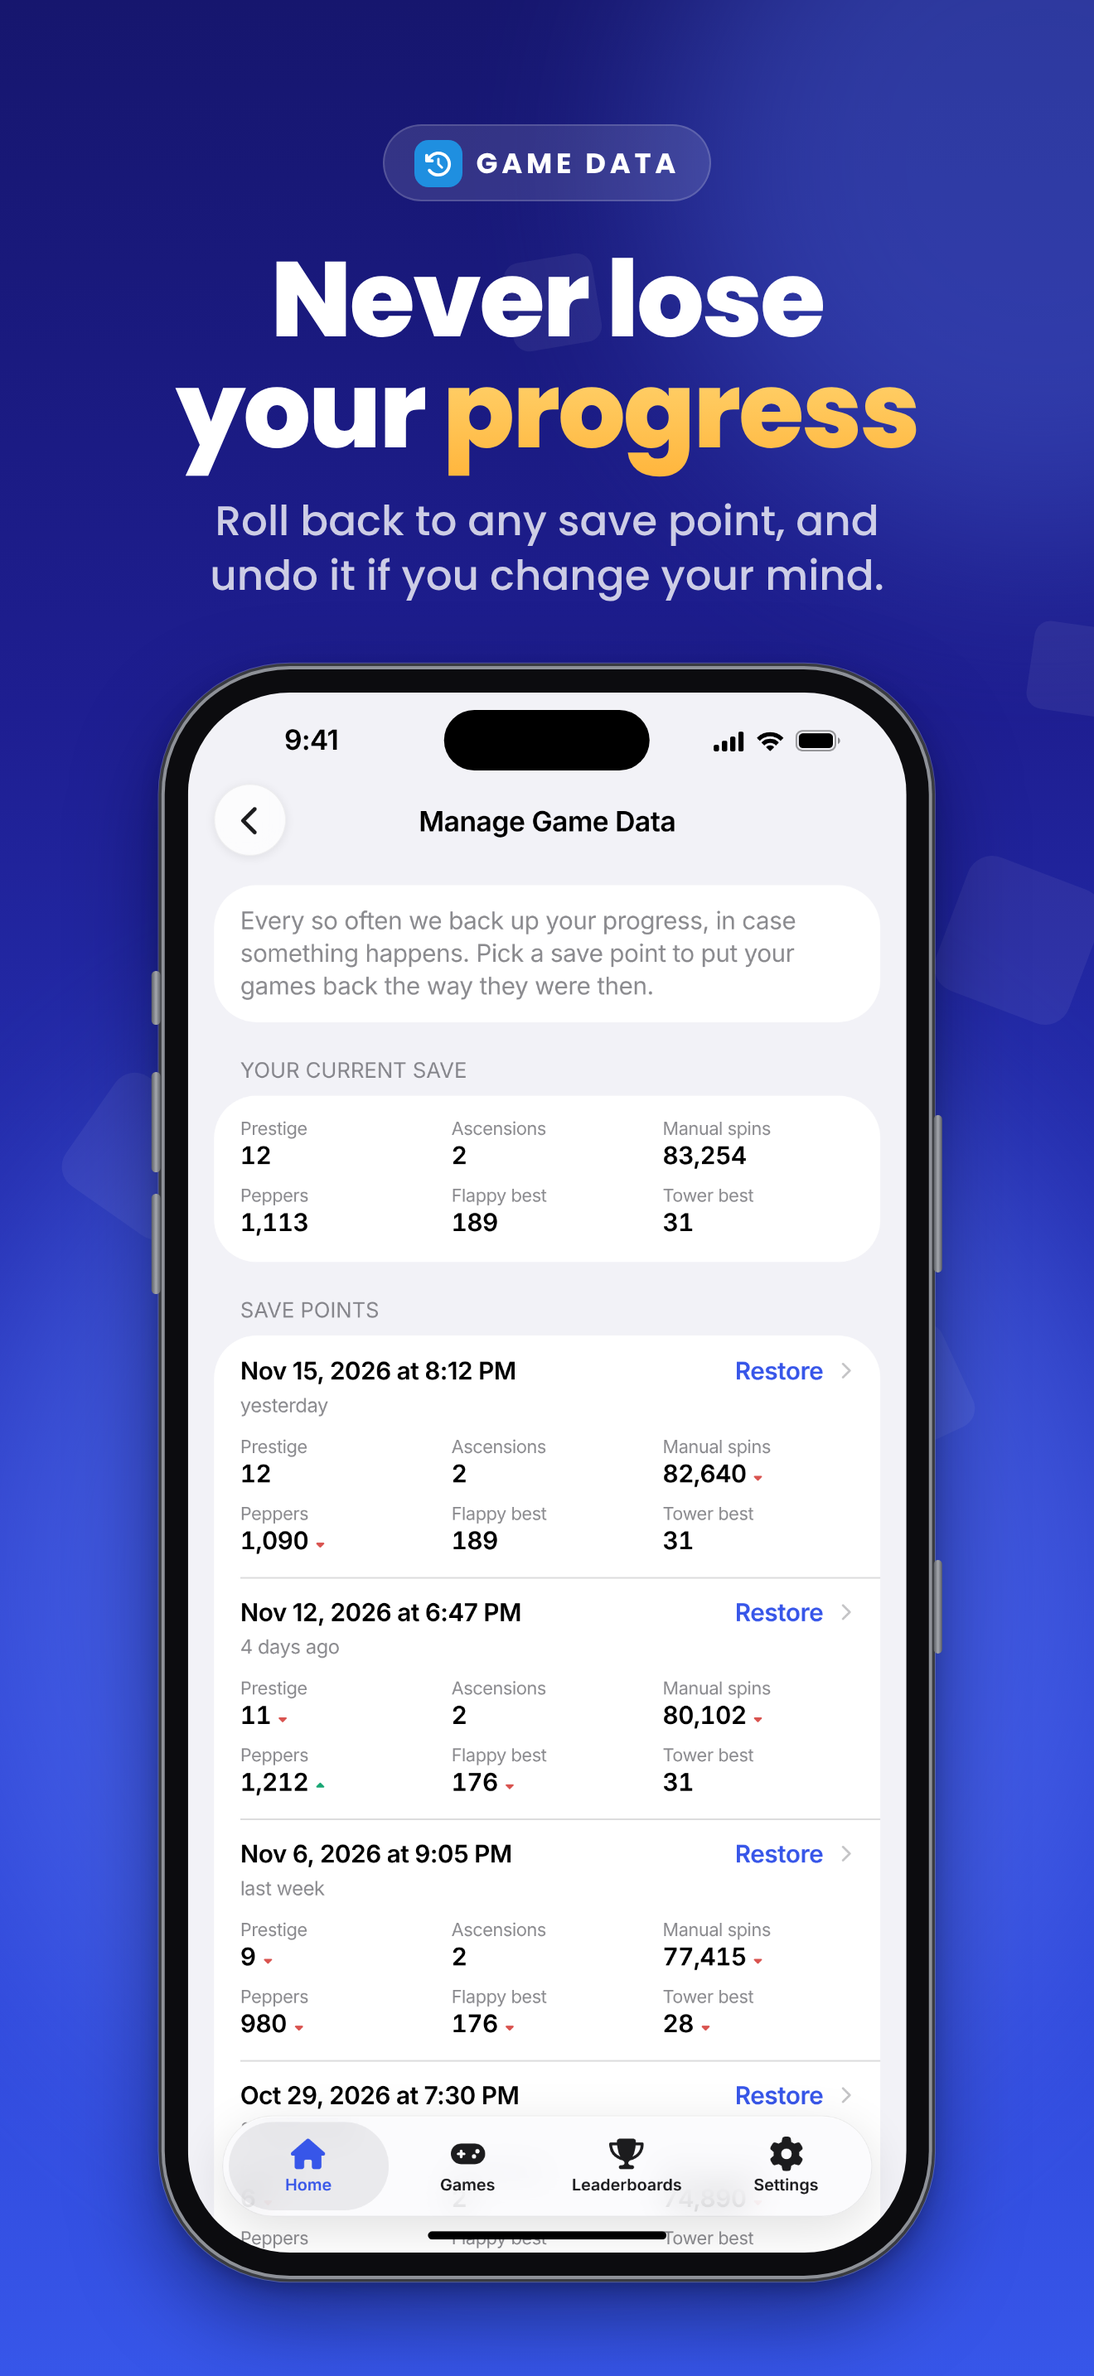
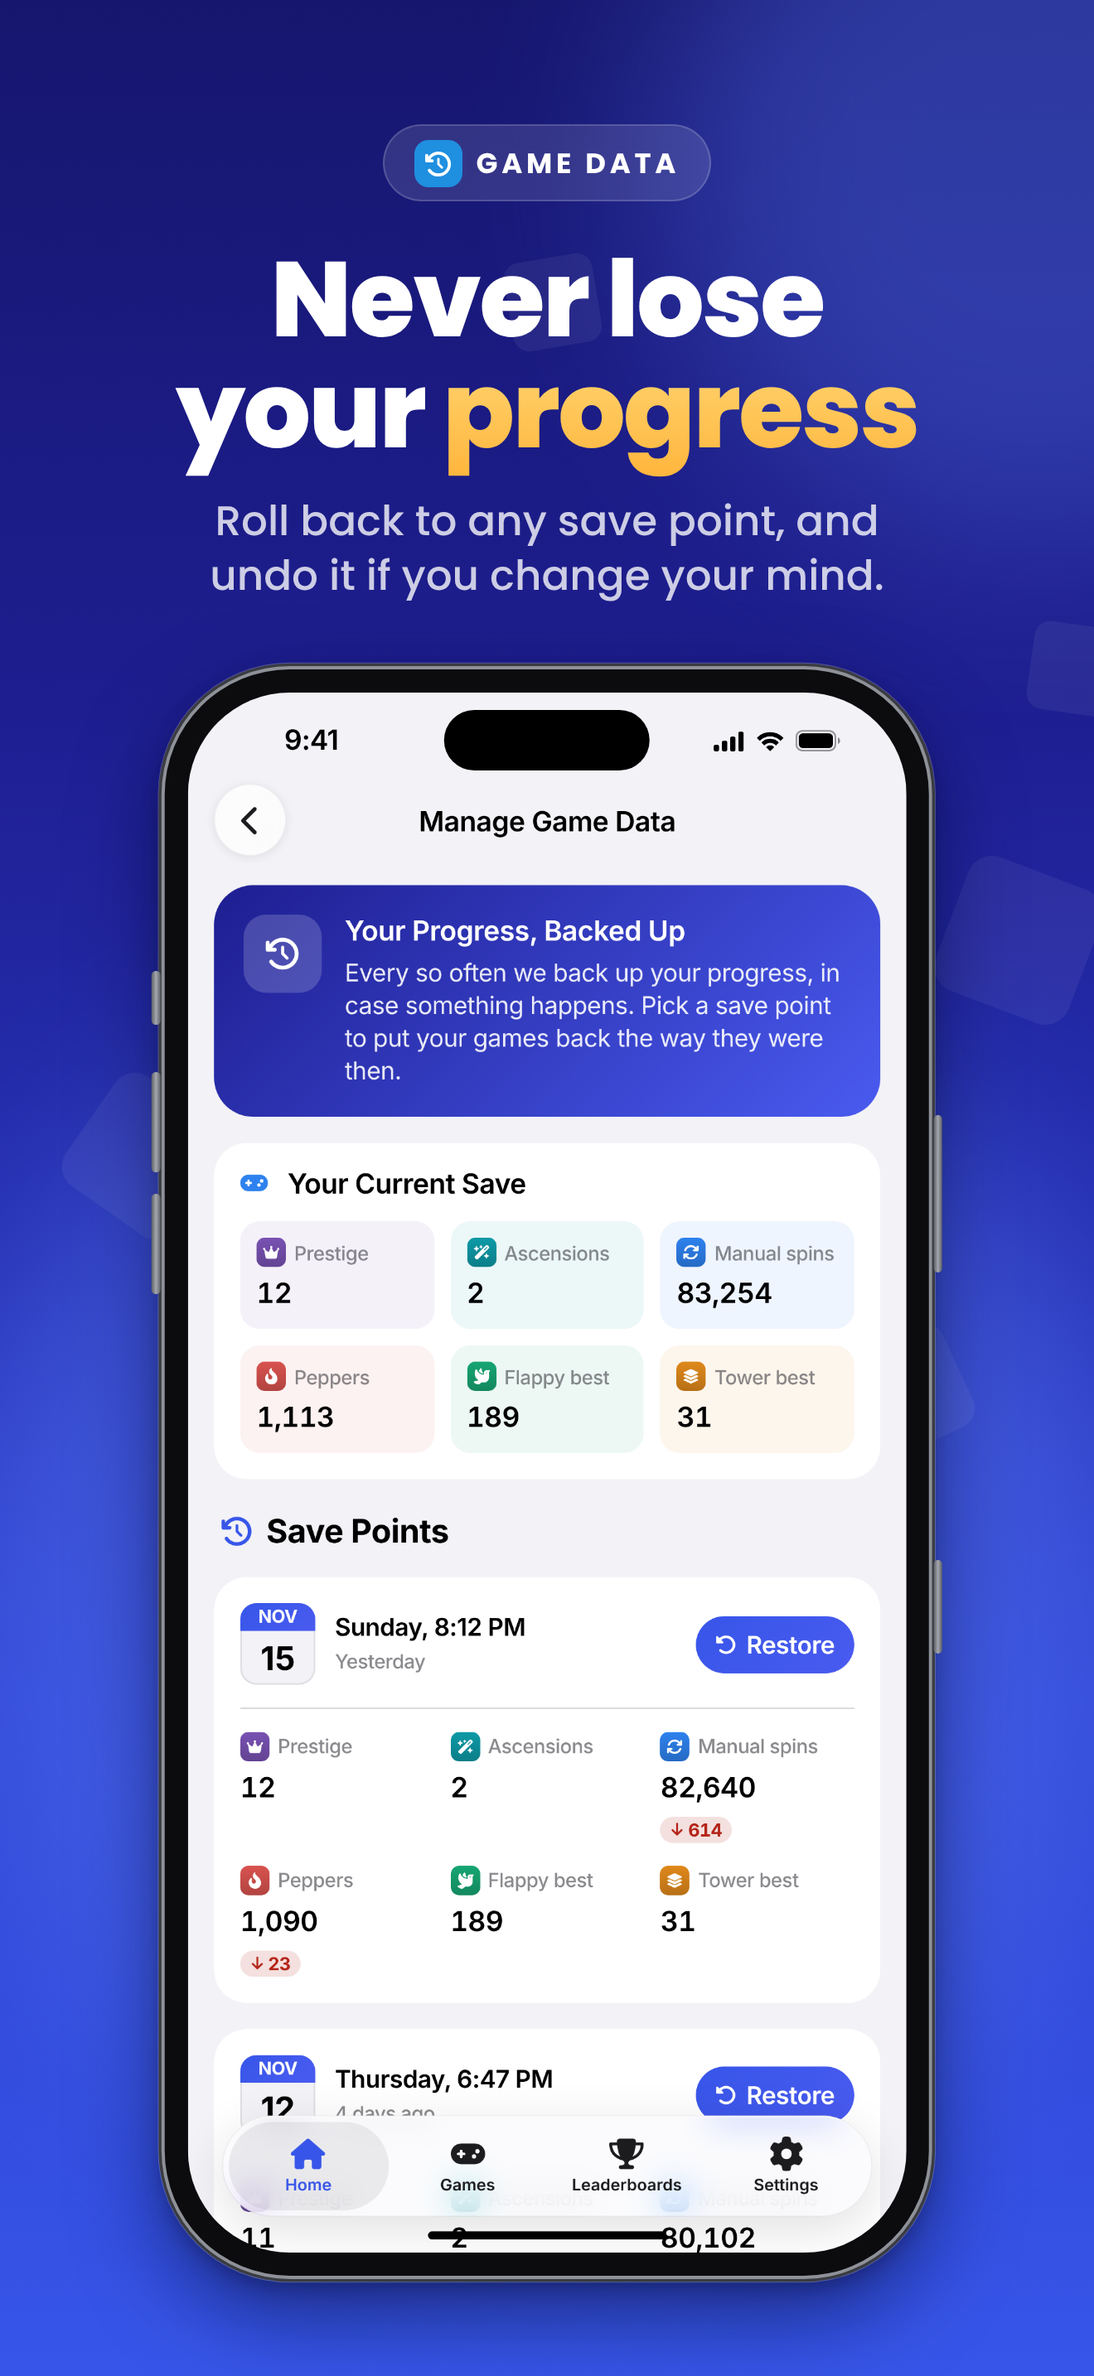
iOS: tidy Manage Game Data cards; redraw its App Store screenshots
- Save point cards: numbers without tiles so more of the list fits,
  no "Same" under unchanged numbers, and weekday + time beside the
  calendar badge rather than the date twice (VoiceOver still reads the
  full date).
- native.html's Manage Game Data replica follows the new design, with the
  icons it needs (Font Awesome 6.7.2), and screens/*/savepoints.png and
  08-saves.png are rendered again from it.

Claude-Session: https://claude.ai/code/session_0112WJBHHjU2nnrges9aJhjk

Changed region(s): [[0.1864, 0.3724, 0.8076, 0.931], [0.6212, 0.931, 0.6833, 0.962], [0.2174, 0.931, 0.2485, 0.962]]

diff --git a/ios/AppStore/templates/native.html b/ios/AppStore/templates/native.html
@@ -204,24 +204,47 @@
   .pad .back { left: 24px; bottom: auto; top: 41px; }
   /* With the tabs on top, the inline title sits beside the back button, on their line */
   .pad .nav.inline .bar .title { position: absolute; left: 80px; top: 41px; line-height: 44px; }
-  .gd .group { background: var(--card); border-radius: 26px; overflow: hidden; margin-bottom: 22px; }
-  .gd .cell { padding: 12px 16px; position: relative; }
-  .gd .cell + .cell::before { content: ""; position: absolute; top: 0; left: 16px; right: 0; height: 0.5px; background: var(--separator); }
-  .gd .intro { font-size: 15px; line-height: 20px; color: var(--secondary); }
-  .gd .sechead { padding-left: 16px; }
-  .gd .secfoot { padding: 0 16px; margin: -15px 0 22px; line-height: 18px; }
-  .stats { display: grid; grid-template-columns: repeat(3, minmax(0, 1fr)); column-gap: 12px; row-gap: 8px; }
-  .stats small { display: block; font-size: 11px; line-height: 13px; color: var(--secondary); white-space: nowrap; }
-  .stats b { font-size: 15px; font-weight: 600; line-height: 20px; font-variant-numeric: tabular-nums; display: flex; gap: 3px; align-items: center; }
-  .stats b.kept { color: var(--secondary); }
-  .stats .ico { font-size: 8px; }
-  .sp { display: flex; flex-direction: column; gap: 10px; padding: 14px 16px; }
-  .sp .when { display: flex; align-items: baseline; gap: 8px; }
+  /* Cards on the grouped background, as SavePointsView draws them */
+  .gd { display: flex; flex-direction: column; gap: 16px; }
+  .gd .ghero { border-radius: 24px; padding: 18px; color: #fff; display: flex; gap: 14px; align-items: flex-start;
+    background: linear-gradient(135deg, var(--brand), #4A5BF0); }
+  .gd .ghero .gi { width: 48px; height: 48px; border-radius: 14px; background: rgba(255,255,255,0.18); display: grid; place-items: center;
+    font-size: 22px; flex: none; }
+  .gd .ghero b { display: block; font-size: 17px; font-weight: 600; line-height: 22px; }
+  .gd .ghero p { font-size: 15px; line-height: 20px; opacity: 0.9; margin-top: 4px; }
+  .gd .gsec { font-size: 20px; font-weight: 700; display: flex; gap: 8px; align-items: center; padding: 4px 4px 0; }
+  .gd .gsec .ico { color: var(--accent); }
+  .gd .gnote { font-size: 13px; line-height: 18px; color: var(--secondary); display: flex; gap: 6px; padding: 0 4px; }
+  .gd .gnote .ico { margin-top: 2px; }
+  .stats { display: grid; grid-template-columns: repeat(3, minmax(0, 1fr)); gap: 10px; }
+  .stats > div { border-radius: 12px; padding: 10px; display: flex; flex-direction: column; gap: 6px; min-width: 0; }
+  .stats .sl { display: flex; gap: 5px; align-items: center; font-size: 12px; font-weight: 500; color: var(--secondary); white-space: nowrap; }
+  .stats .si { width: 18px; height: 18px; border-radius: 5px; display: grid; place-items: center; color: #fff; font-size: 10px; flex: none; }
+  .stats b { font-size: 17px; font-weight: 600; line-height: 22px; font-variant-numeric: tabular-nums; }
+  .sp .stats { row-gap: 14px; }
+  .sp .stats > div { padding: 0; background: none !important; }
+  .stats b.kept { color: var(--tertiary); }
+  .stats .note { font-size: 11px; font-weight: 500; color: var(--secondary); line-height: 16px; }
+  .delta { align-self: flex-start; display: inline-flex; gap: 2px; align-items: center; font-size: 11px; font-weight: 700; line-height: 16px;
+    padding: 0 6px; border-radius: 99px; font-variant-numeric: tabular-nums; }
+  .delta .ico { font-size: 9px; }
+  .delta.gain { color: #0B744C; background: rgba(11,116,76,0.14); }
+  .delta.loss { color: #B42318; background: rgba(180,35,24,0.14); }
+  .sp { background: var(--card); border-radius: 20px; padding: 16px; display: flex; flex-direction: column; gap: 14px; }
+  .sp .when { display: flex; align-items: center; gap: 12px; }
   .sp .when b { display: block; font-size: 15px; font-weight: 600; line-height: 20px; }
-  .sp .when small { font-size: 12px; color: var(--secondary); }
-  .sp .restore { margin-left: auto; font-size: 15px; font-weight: 600; color: var(--accent); display: flex; gap: 8px; align-items: center; }
-  .sp .restore .ico { font-size: 11px; color: var(--tertiary); }
-  .tag { align-self: flex-start; font-size: 11px; font-weight: 600; padding: 3px 8px; border-radius: 99px; color: var(--secondary); background: rgba(60,60,67,0.08); }
+  .sp .when small { font-size: 12px; font-weight: 500; color: var(--secondary); }
+  .cal { width: 46px; height: 50px; border-radius: 10px; overflow: hidden; flex: none; display: flex; flex-direction: column;
+    background: #F2F2F7; box-shadow: inset 0 0 0 1px rgba(0,0,0,0.08); }
+  .cal i { font-style: normal; font-size: 11px; font-weight: 700; color: #fff; text-align: center; line-height: 17px;
+    background: linear-gradient(135deg, #3756E9, #4A5BF0); }
+  .cal span { flex: 1; display: grid; place-items: center; font-size: 20px; font-weight: 700; }
+  .sp .restore { margin-left: auto; font-size: 15px; font-weight: 600; color: #fff; display: flex; gap: 6px; align-items: center;
+    padding: 8px 12px; border-radius: 99px; background: linear-gradient(135deg, #3756E9, #4A5BF0); white-space: nowrap; }
+  .sp .restore .ico { font-size: 13px; }
+  .sp hr { border: 0; height: 0.5px; background: var(--separator); }
+  .tag { align-self: flex-start; display: inline-flex; gap: 4px; align-items: center; font-size: 11px; font-weight: 600; padding: 4px 8px;
+    border-radius: 99px; color: var(--spin); background: rgba(46,130,239,0.14); }
   .pad .gd { max-width: 720px; margin: 0 auto; }  /* readableListWidth() */
 
   .xp { display: flex; gap: 8px; font-size: 20px; font-weight: 600; align-items: center; }
@@ -492,38 +515,52 @@ const peppersCard = () => `
 // Manage Game Data (SavePointsView): the account now, then its save points,
 // newest first, each against it, higher or lower. Mateo's numbers, as on Home.
 const NOW = [12, 2, 83254, 1113, 189, 31];
-const STAT_LABELS = ['Prestige', 'Ascensions', 'Manual spins', 'Peppers', 'Flappy best', 'Tower best'];
+// SaveStat's label, symbol and tint.
+const STATS = [
+  ['Prestige', 'crown', 'var(--friends)'], ['Ascensions', 'sparkles', '#0E9AA7'], ['Manual spins', 'spin', 'var(--spin)'],
+  ['Peppers', 'flame', 'var(--peppers)'], ['Flappy best', 'bird', 'var(--flappy)'], ['Tower best', 'stack', 'var(--tower)'],
+];
+// DeltaPill: compact, as .compactName writes it.
+const compact = n => n >= 1000 ? `${+(n / 1000).toFixed(n >= 10000 ? 0 : 1)}K` : String(n);
 const statsGrid = (values, { now, spinOnly } = {}) => `<div class="stats">${values.map((v, i) => {
-  const kept = spinOnly && i >= 3, value = kept ? NOW[i] : v;
-  const trend = !now || kept || value === now[i] ? '' : value > now[i]
-    ? `<span style="color:var(--flappy)">${icon('up')}</span>` : `<span style="color:var(--peppers)">${icon('down')}</span>`;
-  return `<div><small>${STAT_LABELS[i]}</small><b class="${kept ? 'kept' : ''}">${value === null ? '—' : fmt(value)}${trend}</b></div>`;
+  const [label, ic, tint] = STATS[i], kept = spinOnly && i >= 3, value = kept ? NOW[i] : v;
+  const d = (value ?? 0) - (now?.[i] ?? 0);
+  const under = !now ? '' : kept ? '<span class="note">Unchanged</span>' : d === 0 ? ''
+    : `<span class="delta ${d > 0 ? 'gain' : 'loss'}">${icon(d > 0 ? 'arrowup' : 'arrowdown')}${compact(Math.abs(d))}</span>`;
+  const fill = kept ? '#8E8E93' : tint;
+  return `<div style="background:color-mix(in srgb, ${tint} ${kept ? 3 : 8}%, transparent)">
+    <span class="sl"><span class="si" style="background:${deepen(fill)}">${icon(ic)}</span>${label}</span>
+    <b class="${kept ? 'kept' : ''}">${value === null ? '—' : fmt(value)}</b>${under}</div>`;
 }).join('')}</div>`;
 
-const savePoint = ([date, ago, values, spinOnly]) => `
-  <div class="cell sp">
-    <div class="when"><div><b>${date}</b><small>${ago}</small></div><span class="restore">Restore ${icon('chevron')}</span></div>
-    ${spinOnly ? '<span class="tag">Spin Only</span>' : ''}
+const savePoint = ([date, title, ago, values, spinOnly]) => {
+  const [month, day] = date.split(' ');
+  return `
+  <div class="sp">
+    <div class="when"><div class="cal"><i>${month.toUpperCase()}</i><span>${parseInt(day)}</span></div>
+      <div><b>${title}</b><small>${ago[0].toUpperCase() + ago.slice(1)}</small></div>
+      <span class="restore">${icon('rotate')} Restore</span></div>
+    ${spinOnly ? `<span class="tag">${icon('spin')} Spin Only</span>` : ''}
+    <hr>
     ${statsGrid(values, { now: NOW, spinOnly })}
   </div>`;
+};
 
 const gameData = () => {
   const points = [
-    ['Nov 15, 2026 at 8:12 PM', 'yesterday', [12, 2, 82640, 1090, 189, 31]],
-    ['Nov 12, 2026 at 6:47 PM', '4 days ago', [11, 2, 80102, 1212, 176, 31]],
-    ['Nov 6, 2026 at 9:05 PM', 'last week', [9, 2, 77415, 980, 176, 28]],
-    ['Oct 29, 2026 at 7:30 PM', '2 weeks ago', [6, 2, 74890, 845, 162, 24]],
-    ['Oct 3, 2026 at 5:58 PM', '6 weeks ago', [92, 1, 68120, null, null, null], true],
-    // The iPad's screen is taller.
-    ...(device === 'pad' ? [['Sep 14, 2026 at 4:21 PM', '2 months ago', [71, 1, 61004, null, null, null], true]] : []),
+    ['Nov 15', 'Sunday, 8:12 PM', 'yesterday', [12, 2, 82640, 1090, 189, 31]],
+    ['Nov 12', 'Thursday, 6:47 PM', '4 days ago', [11, 2, 80102, 1212, 176, 31]],
+    ['Nov 6', 'Friday, 9:05 PM', 'last week', [9, 2, 77415, 980, 176, 28]],
+    ['Oct 29', 'Thursday, 7:30 PM', '2 weeks ago', [6, 2, 74890, 845, 162, 24]],
+    ['Oct 3', 'Saturday, 5:58 PM', '6 weeks ago', [92, 1, 68120, null, null, null], true],
   ];
   return `<div class="gd">
-    <div class="group"><div class="cell intro">Every so often we back up your progress, in case something happens. Pick a save point to put your games back the way they were then.</div></div>
-    <div class="sechead"><span>Your Current Save</span></div>
-    <div class="group"><div class="cell" style="padding:14px 16px">${statsGrid(NOW)}</div></div>
-    <div class="sechead"><span>Save Points</span></div>
-    <div class="group">${points.map(savePoint).join('')}</div>
-    <div class="secfoot">Spin Only save points are older. Restoring one puts back the Spin Game and leaves Flappy, Tower and your peppers as they are.</div>
+    <div class="ghero"><div class="gi">${icon('history')}</div><div><b>Your Progress, Backed Up</b>
+      <p>Every so often we back up your progress, in case something happens. Pick a save point to put your games back the way they were then.</p></div></div>
+    <div class="card"><div class="card-h"><span style="color:var(--spin)">${icon('gamecontroller')}</span>Your Current Save</div>${statsGrid(NOW)}</div>
+    <div class="gsec">${icon('history')} Save Points</div>
+    ${points.map(savePoint).join('')}
+    <div class="gnote">${icon('info')}<span>Spin Only save points are older. Restoring one puts back the Spin Game and leaves Flappy, Tower and your peppers as they are.</span></div>
   </div>`;
 };
 

diff --git a/ios/Empanadas/Features/Home/SavePointsView.swift b/ios/Empanadas/Features/Home/SavePointsView.swift
@@ -260,6 +260,16 @@ private struct SavedWhen {
         point.savedAt?.formatted(date: .abbreviated, time: .shortened) ?? point.label
     }
 
+    /// Beside the calendar badge, which already says the day: "Sunday, 8:12 PM",
+    /// with the year as well when it isn't this one.
+    var title: String {
+        guard let saved = point.savedAt else { return point.label }
+        let thisYear = Calendar.current.isDate(saved, equalTo: .now, toGranularity: .year)
+        return thisYear
+            ? saved.formatted(.dateTime.weekday(.wide).hour().minute())
+            : saved.formatted(date: .abbreviated, time: .shortened)
+    }
+
     var ago: String {
         point.savedAt?.formatted(.relative(presentation: .named)) ?? point.ago
     }
@@ -291,7 +301,7 @@ private struct SavePointCard: View {
             HStack(alignment: .center, spacing: 12) {
                 CalendarBadge(date: point.savedAt, faded: !point.restorable)
                 VStack(alignment: .leading, spacing: 3) {
-                    Text(when.date)
+                    Text(when.title)
                         .font(.subheadline.weight(.semibold))
                         .foregroundStyle(.primary)
                         .lineLimit(2)
@@ -302,6 +312,9 @@ private struct SavePointCard: View {
                             .foregroundStyle(.secondary)
                     }
                 }
+                // The badge is hidden from VoiceOver, so the whole date here.
+                .accessibilityElement(children: .ignore)
+                .accessibilityLabel("Saved \(when.sentence)")
                 Spacer(minLength: 8)
                 if point.restorable {
                     Label("Restore", systemImage: "arrow.counterclockwise")
@@ -403,13 +416,17 @@ private struct Tag: View {
 /// A save's six numbers, three across, each with its colour and symbol.
 /// Against the account's now when `now` is given: how much higher or lower,
 /// and dimmed where restoring `point` would leave the number as it is.
+/// The current save sits on tinted tiles; a save point's numbers don't, so
+/// more of the list fits on screen.
 private struct SaveStatsGrid: View {
     let stats: SaveStats
     var now: SaveStats?
     var point: SavePoint?
 
+    private var tiled: Bool { point == nil }
+
     var body: some View {
-        Grid(alignment: .leading, horizontalSpacing: 10, verticalSpacing: 10) {
+        Grid(alignment: .topLeading, horizontalSpacing: 10, verticalSpacing: tiled ? 10 : 14) {
             GridRow {
                 cell(.prestige)
                 cell(.ascensions)
@@ -453,15 +470,11 @@ private struct SaveStatsGrid: View {
                     .foregroundStyle(.secondary)
             } else if let delta, delta != 0 {
                 DeltaPill(delta: delta)
-            } else if now != nil {
-                Text("Same")
-                    .font(.caption2.weight(.medium))
-                    .foregroundStyle(.secondary)
             }
         }
-        .padding(10)
-        .frame(maxWidth: .infinity, alignment: .leading)
-        .background(stat.tint.opacity(kept ? 0.03 : 0.08),
+        .padding(tiled ? 10 : 0)
+        .frame(maxWidth: .infinity, alignment: .topLeading)
+        .background(tiled ? stat.tint.opacity(0.08) : .clear,
                     in: RoundedRectangle(cornerRadius: 12, style: .continuous))
         .accessibilityElement(children: .combine)
         .accessibilityHint(kept ? "Not in this save point, so restoring it leaves this as it is" : "")

diff --git a/ios/AppStore/templates/icons.js b/ios/AppStore/templates/icons.js
@@ -29,4 +29,11 @@ window.ICONS = {
   up: [320, 512, 'M140.3 135.2c12.6-10.3 31.1-9.5 42.8 2.2l128 128c9.2 9.2 11.9 22.9 6.9 34.9S301.4 320 288.5 320l-256 0c-12.9 0-24.6-7.8-29.6-19.8S.7 274.5 9.9 265.4l128-128 2.4-2.2z'],
   down: [320, 512, 'M140.3 376.8c12.6 10.2 31.1 9.5 42.8-2.2l128-128c9.2-9.2 11.9-22.9 6.9-34.9S301.4 192 288.5 192l-256 0c-12.9 0-24.6 7.8-29.6 19.8S.7 237.5 9.9 246.6l128 128 2.4 2.2z'],
   arrow: [512, 512, 'M502.6 278.6c12.5-12.5 12.5-32.8 0-45.3l-160-160c-12.5-12.5-32.8-12.5-45.3 0s-12.5 32.8 0 45.3L402.7 224 32 224c-17.7 0-32 14.3-32 32s14.3 32 32 32l370.7 0-105.4 105.4c-12.5 12.5-12.5 32.8 0 45.3s32.8 12.5 45.3 0l160-160z'],
+  crown: [576, 512, 'M309 106c11.4-7 19-19.7 19-34c0-22.1-17.9-40-40-40s-40 17.9-40 40c0 14.4 7.6 27 19 34L209.7 220.6c-9.1 18.2-32.7 23.4-48.6 10.7L72 160c5-6.7 8-15 8-24c0-22.1-17.9-40-40-40S0 113.9 0 136s17.9 40 40 40c.2 0 .5 0 .7 0L86.4 427.4c5.5 30.4 32 52.6 63 52.6l277.2 0c30.9 0 57.4-22.1 63-52.6L535.3 176c.2 0 .5 0 .7 0c22.1 0 40-17.9 40-40s-17.9-40-40-40s-40 17.9-40 40c0 9 3 17.3 8 24l-89.1 71.3c-15.9 12.7-39.5 7.5-48.6-10.7L309 106z'],
+  sparkles: [576, 512, 'M234.7 42.7L197 56.8c-3 1.1-5 4-5 7.2s2 6.1 5 7.2l37.7 14.1L248.8 123c1.1 3 4 5 7.2 5s6.1-2 7.2-5l14.1-37.7L315 71.2c3-1.1 5-4 5-7.2s-2-6.1-5-7.2L277.3 42.7 263.2 5c-1.1-3-4-5-7.2-5s-6.1 2-7.2 5L234.7 42.7zM46.1 395.4c-18.7 18.7-18.7 49.1 0 67.9l34.6 34.6c18.7 18.7 49.1 18.7 67.9 0L529.9 116.5c18.7-18.7 18.7-49.1 0-67.9L495.3 14.1c-18.7-18.7-49.1-18.7-67.9 0L46.1 395.4zM484.6 82.6l-105 105-23.3-23.3 105-105 23.3 23.3zM7.5 117.2C3 118.9 0 123.2 0 128s3 9.1 7.5 10.8L64 160l21.2 56.5c1.7 4.5 6 7.5 10.8 7.5s9.1-3 10.8-7.5L128 160l56.5-21.2c4.5-1.7 7.5-6 7.5-10.8s-3-9.1-7.5-10.8L128 96 106.8 39.5C105.1 35 100.8 32 96 32s-9.1 3-10.8 7.5L64 96 7.5 117.2zm352 256c-4.5 1.7-7.5 6-7.5 10.8s3 9.1 7.5 10.8L416 416l21.2 56.5c1.7 4.5 6 7.5 10.8 7.5s9.1-3 10.8-7.5L480 416l56.5-21.2c4.5-1.7 7.5-6 7.5-10.8s-3-9.1-7.5-10.8L480 352l-21.2-56.5c-1.7-4.5-6-7.5-10.8-7.5s-9.1 3-10.8 7.5L416 352l-56.5 21.2z'],
+  rotate: [512, 512, 'M48.5 224L40 224c-13.3 0-24-10.7-24-24L16 72c0-9.7 5.8-18.5 14.8-22.2s19.3-1.7 26.2 5.2L98.6 96.6c87.6-86.5 228.7-86.2 315.8 1c87.5 87.5 87.5 229.3 0 316.8s-229.3 87.5-316.8 0c-12.5-12.5-12.5-32.8 0-45.3s32.8-12.5 45.3 0c62.5 62.5 163.8 62.5 226.3 0s62.5-163.8 0-226.3c-62.2-62.2-162.7-62.5-225.3-1L185 183c6.9 6.9 8.9 17.2 5.2 26.2s-12.5 14.8-22.2 14.8L48.5 224z'],
+  shield: [512, 512, 'M256 0c4.6 0 9.2 1 13.4 2.9L457.7 82.8c22 9.3 38.4 31 38.3 57.2c-.5 99.2-41.3 280.7-213.6 363.2c-16.7 8-36.1 8-52.8 0C57.3 420.7 16.5 239.2 16 140c-.1-26.2 16.3-47.9 38.3-57.2L242.7 2.9C246.8 1 251.4 0 256 0zm0 66.8l0 378.1C394 378 431.1 230.1 432 141.4L256 66.8s0 0 0 0z'],
+  info: [512, 512, 'M256 512A256 256 0 1 0 256 0a256 256 0 1 0 0 512zM216 336l24 0 0-64-24 0c-13.3 0-24-10.7-24-24s10.7-24 24-24l48 0c13.3 0 24 10.7 24 24l0 88 8 0c13.3 0 24 10.7 24 24s-10.7 24-24 24l-80 0c-13.3 0-24-10.7-24-24s10.7-24 24-24zm40-208a32 32 0 1 1 0 64 32 32 0 1 1 0-64z'],
+  arrowup: [384, 512, 'M214.6 41.4c-12.5-12.5-32.8-12.5-45.3 0l-160 160c-12.5 12.5-12.5 32.8 0 45.3s32.8 12.5 45.3 0L160 141.2 160 448c0 17.7 14.3 32 32 32s32-14.3 32-32l0-306.7L329.4 246.6c12.5 12.5 32.8 12.5 45.3 0s12.5-32.8 0-45.3l-160-160z'],
+  arrowdown: [384, 512, 'M169.4 470.6c12.5 12.5 32.8 12.5 45.3 0l160-160c12.5-12.5 12.5-32.8 0-45.3s-32.8-12.5-45.3 0L224 370.8 224 64c0-17.7-14.3-32-32-32s-32 14.3-32 32l0 306.7L54.6 265.4c-12.5-12.5-32.8-12.5-45.3 0s-12.5 32.8 0 45.3l160 160z'],
 };
